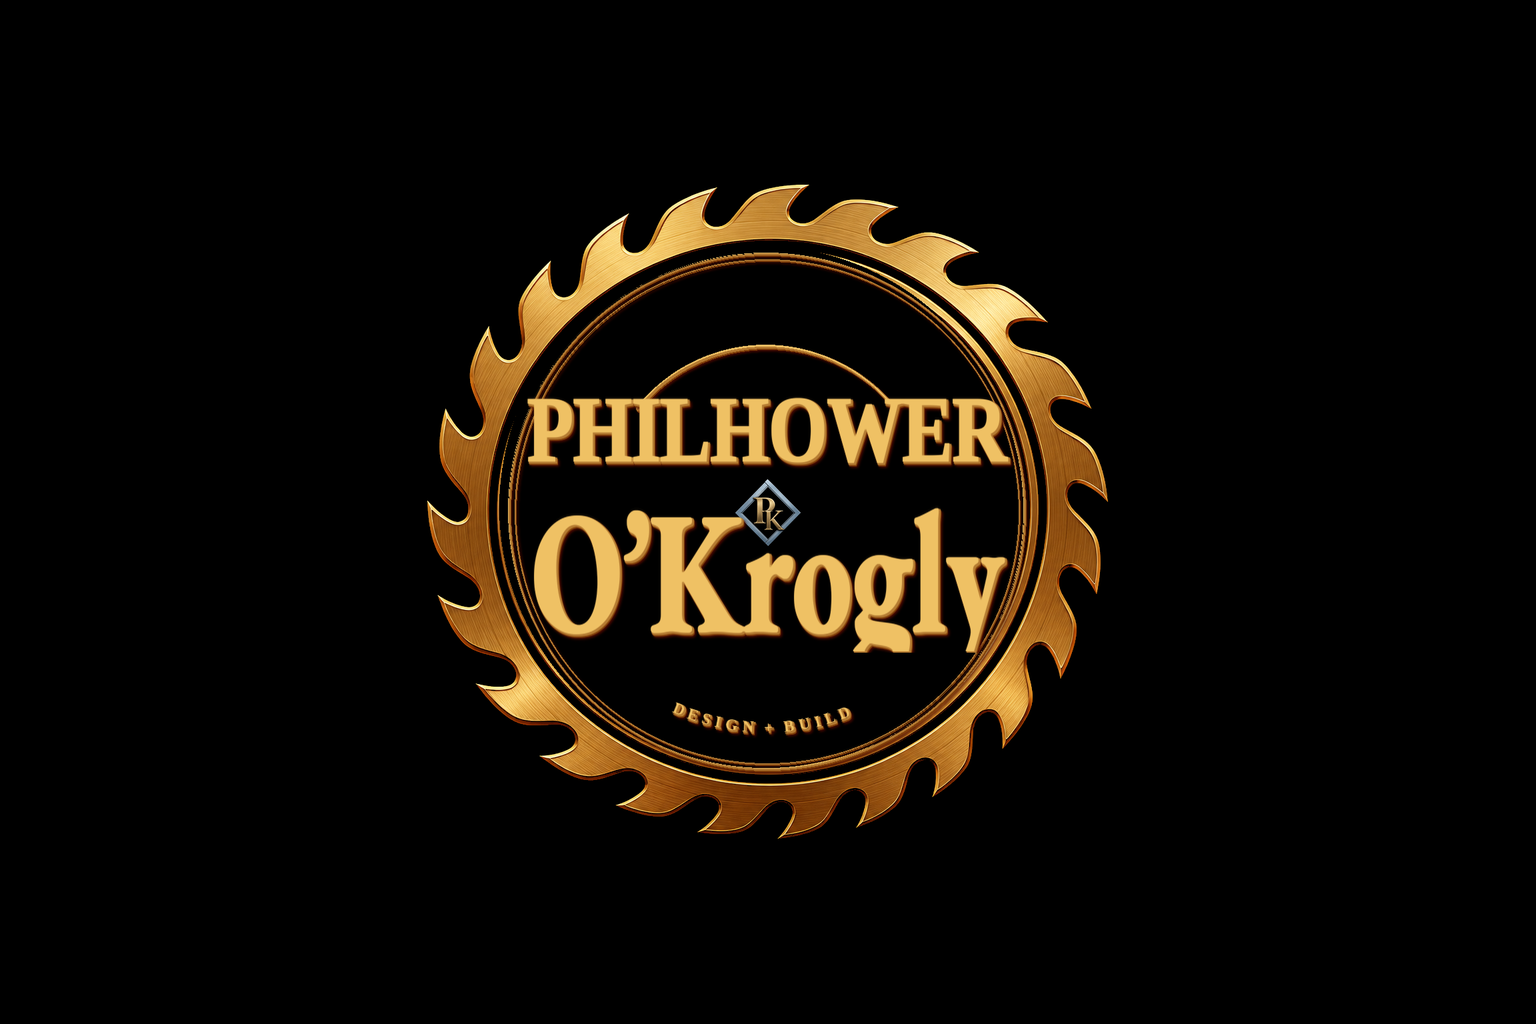
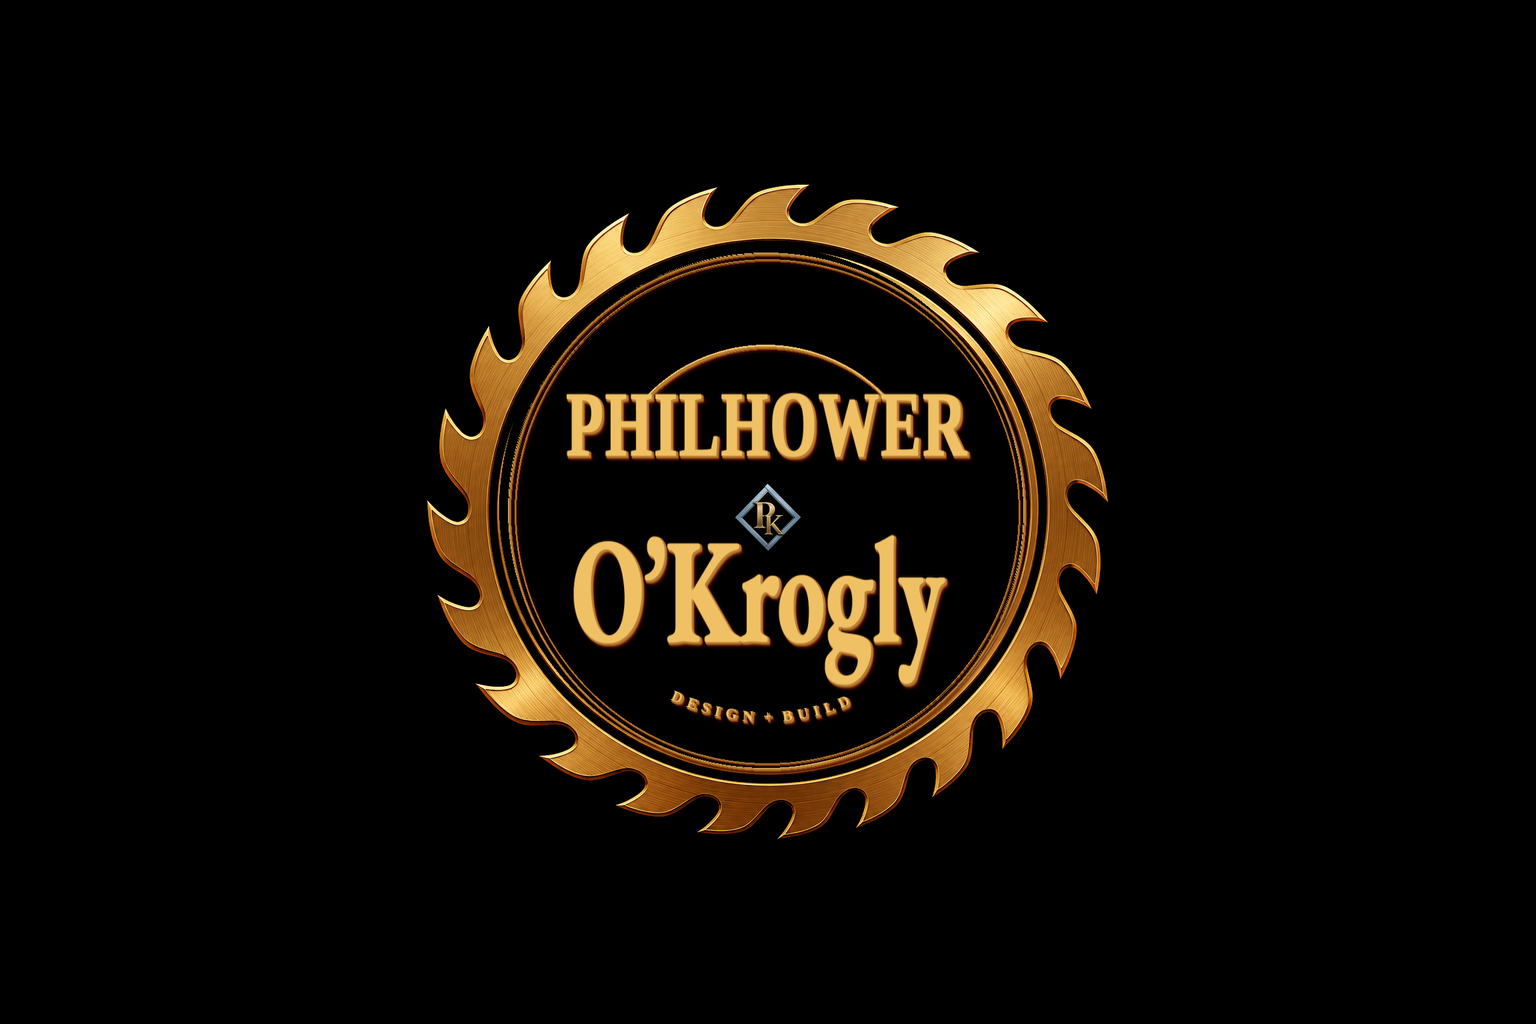
Shrink the carpenter-square diamond; make Philhower and O’Krogly taller.
Theme 1.0.29 / brands-print-22.

Changed region(s): [[0.3438, 0.375, 0.6562, 0.7188]]

diff --git a/dphilhower-studio-wp/theme/dphilhower-studio/style.css b/dphilhower-studio-wp/theme/dphilhower-studio/style.css
@@ -4,7 +4,7 @@ Theme URI: https://dphilhower.com
 Author: D Philhower Studio
 Author URI: https://dphilhower.com
 Description: Custom graphic design studio theme for D Philhower Studio at dphilhower.com — portfolio, services, about, and project inquiries. Activate the theme to load demo pages and work samples.
-Version: 1.0.28
+Version: 1.0.29
 Requires at least: 6.4
 Tested up to: 6.8
 Requires PHP: 7.4

diff --git a/dphilhower-studio-wp/theme/dphilhower-studio/functions.php b/dphilhower-studio-wp/theme/dphilhower-studio/functions.php
@@ -9,7 +9,7 @@ if ( ! defined( 'ABSPATH' ) ) {
 	exit;
 }
 
-define( 'DPS_VERSION', '1.0.28' );
+define( 'DPS_VERSION', '1.0.29' );
 define( 'DPS_DIR', get_template_directory() );
 define( 'DPS_URI', get_template_directory_uri() );
 
@@ -164,14 +164,14 @@ function dps_maybe_upgrade_images() {
 	if ( 'dphilhower-studio' !== get_stylesheet() ) {
 		return;
 	}
-	if ( get_option( 'dps_images_version' ) === 'brands-print-21' ) {
+	if ( get_option( 'dps_images_version' ) === 'brands-print-22' ) {
 		return;
 	}
 	if ( ! get_option( 'dps_demo_seeded' ) ) {
 		return;
 	}
 	dps_seed_demo_content( true );
-	update_option( 'dps_images_version', 'brands-print-21' );
+	update_option( 'dps_images_version', 'brands-print-22' );
 }
 
 /**

diff --git a/dphilhower-studio-wp/theme/dphilhower-studio/inc/setup-content.php b/dphilhower-studio-wp/theme/dphilhower-studio/inc/setup-content.php
@@ -461,7 +461,7 @@ function dps_seed_demo_content( $force = false ) {
 	flush_rewrite_rules();
 
 	update_option( 'dps_demo_seeded', DPS_VERSION );
-	update_option( 'dps_images_version', 'brands-print-21' );
+	update_option( 'dps_images_version', 'brands-print-22' );
 	return true;
 }
 
